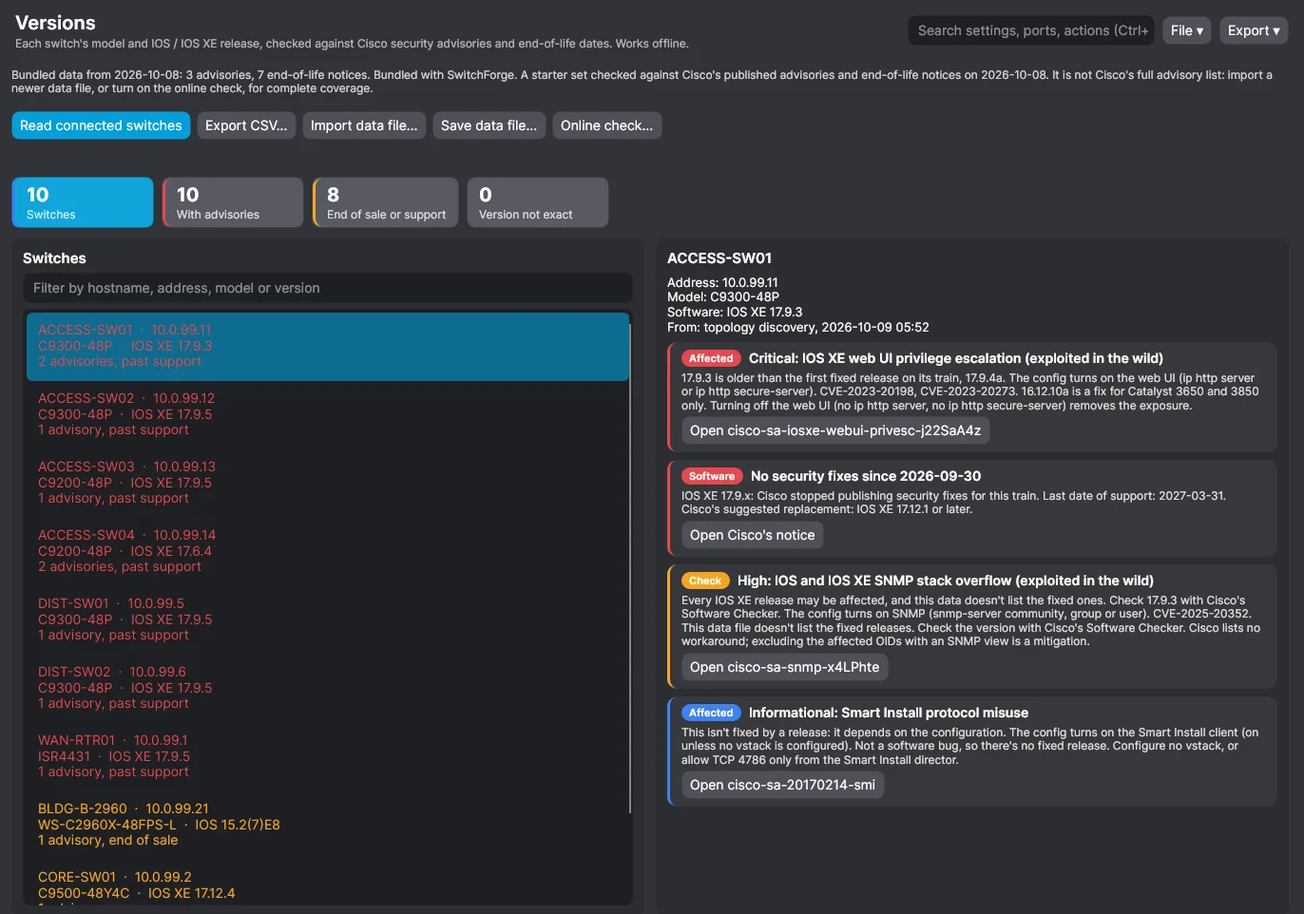
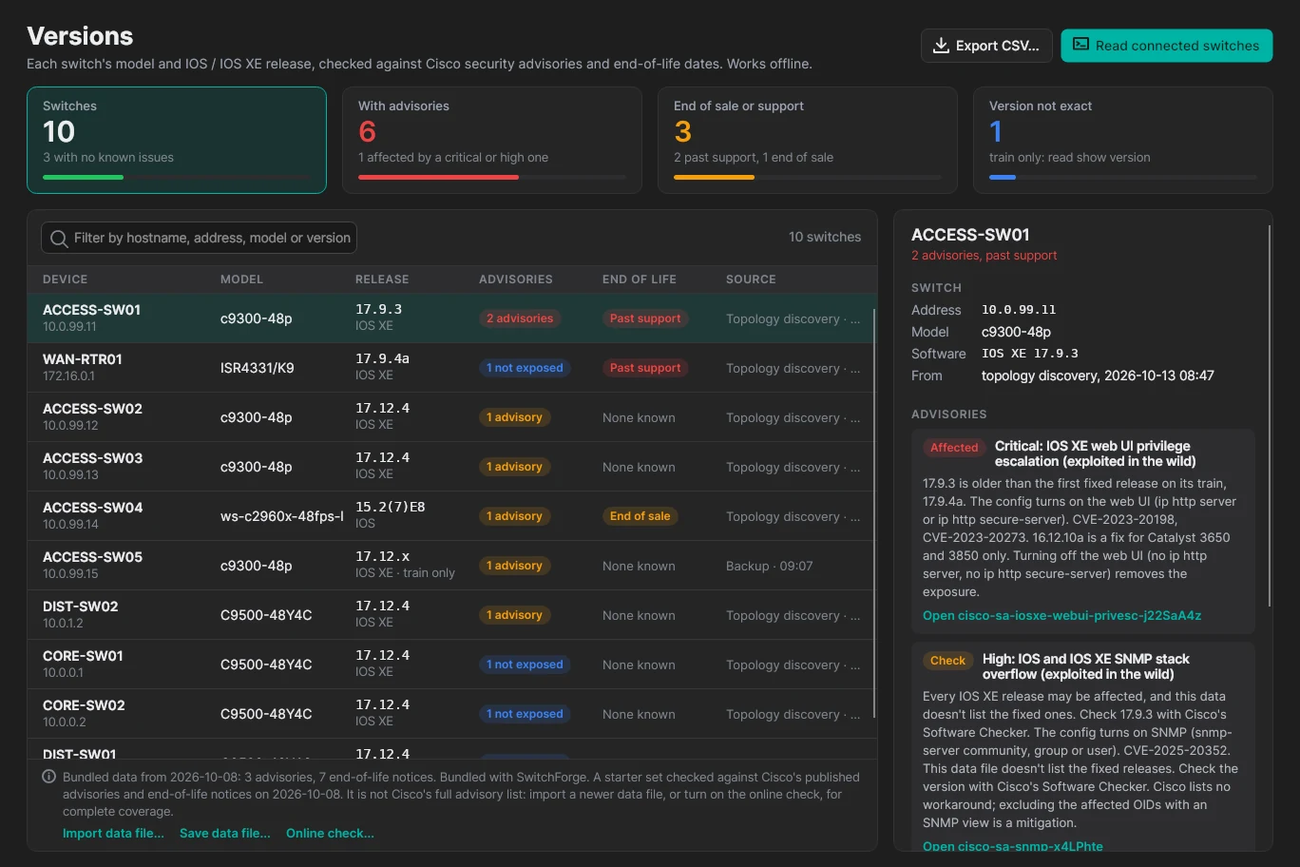
Update the site for 0.7.0 with fresh screenshots
New Graphite screenshots of the current app (Home, Design, debugger,
BGP builder, ACL builder, Safe Commit, STIG, Fleet, What changed,
Versions, Topology) from one consistent sample fleet, plus copy for
the new routing, Layer 2, access security, QoS, gateway and management
builders, at-rest encryption and checked checklist exports.

Claude-Session: https://claude.ai/code/session_01Ngcz3p2f2b6Fviu5yrTX37

diff --git a/index.html b/index.html
@@ -6,8 +6,8 @@
 <!-- Renaming the product? Change APP_NAME below, plus the name in <title> and the og: tags (link previews read those without running scripts),
      and re-render assets/og.png, the link preview image, which has the name drawn into it. -->
 <title>SwitchForge · Cisco config, STIG compliance and safe deployment</title>
-<meta name="description" content="Design, check and deploy Cisco switch and router configs offline. A live debugger, DISA STIG checks with evidence in .ckl/.cklb, and Safe Commit with a way back. Windows, air-gap ready.">
-<meta name="theme-color" content="#17181b">
+<meta name="description" content="Design, check and deploy Cisco switch and router configs offline. Builders for routing, Layer 2, security and QoS, a live debugger, DISA STIG checks with evidence in .ckl/.cklb, and Safe Commit with a way back. Windows, air-gap ready.">
+<meta name="theme-color" content="#1e1e1e">
 <meta property="og:type" content="website">
 <meta property="og:title" content="SwitchForge · Cisco config, STIG compliance and safe deployment">
 <meta property="og:description" content="Design, check and deploy Cisco configs offline, with DISA STIG checks, evidence-ready checklists and a way back on every change.">
@@ -308,9 +308,9 @@ footer p{max-width:66ch}
     <figure class="shot-hero reveal">
       <div class="window">
         <div class="bar"><i></i><i></i><i></i><span>Design · ACCESS-SW01 · Catalyst C9300-48P</span></div>
-        <img src="assets/img/design.webp" width="1600" height="1000" fetchpriority="high"
-             alt="The Design page. A 48-port Catalyst front panel with 24 ports selected; the port configuration panel shows access mode, VLAN 10 USERS, voice VLAN 20, PortFast and BPDU Guard; the global configuration shows the hostname, management interface and VLANs."
-             data-cap="Design: 24 ports selected on the front panel, with their access VLAN, voice VLAN, PortFast and BPDU Guard on the left and the switch's global settings on the right.">
+        <img src="assets/img/design.webp" width="1600" height="930" fetchpriority="high"
+             alt="The Design page. A 48-port Catalyst front panel with ports 1 to 24 selected, a table listing each selected port with its description, mode, VLAN 10 USERS, voice VLAN 20, PoE and BPDU guard, and port settings on the right: access mode, data VLAN 10, voice VLAN 20, PortFast and BPDU guard on, and the config lines for these ports."
+             data-cap="Design: ports 1 to 24 selected on the front panel, listed one per row, with their settings on the right and the config lines they produce underneath.">
       </div>
     </figure>
 
@@ -322,7 +322,7 @@ footer p{max-width:66ch}
     </div>
 
     <nav class="flow reveal" aria-label="Workflow">
-      <a href="#build"><span class="n">01</span><b>Design</b><p>Ports, global settings and ACLs. No switch needed.</p></a>
+      <a href="#build"><span class="n">01</span><b>Design</b><p>Ports, routing, ACLs, QoS and more. No switch needed.</p></a>
       <a href="#debugger"><span class="n">02</span><b>Validate</b><p>A debugger checks every line as you type.</p></a>
       <a href="#compliance"><span class="n">03</span><b>Comply</b><p>DISA STIGs with evidence and one-click fixes.</p></a>
       <a href="#deploy"><span class="n">04</span><b>Deploy</b><p>Safe Commit sends only the delta.</p></a>
@@ -338,7 +338,7 @@ footer p{max-width:66ch}
     <div class="sec-head reveal">
       <span class="eyebrow">Build offline</span>
       <h2>Catch the mistake before the switch does</h2>
-      <p>Edit the config visually or as text. Both stay in sync, and everything is checked while you work, with no switch connected.</p>
+      <p>Edit the config in forms or as text. Both stay in sync, and everything is checked while you work, with no switch connected.</p>
     </div>
 
     <div class="feature wide" id="debugger">
@@ -349,17 +349,35 @@ footer p{max-width:66ch}
           <p>Every line is checked as you type. Problem lines are underlined in the editor, and the debugger lists each issue with a <b>Why?</b> that explains it.</p>
         </div>
         <ul class="ticks">
-          <li><b>Invalid values</b>, like an NTP server of 10.20.30.999 or a route to a next hop that can't exist</li>
-          <li><b>Typos with a one-click fix</b>: "privilage" becomes "privilege"</li>
-          <li><b>Overlapping subnets and duplicate addresses</b> the switch would reject</li>
-          <li>Open STIG findings listed alongside, as compliance items</li>
+          <li><b>Invalid values</b>, like an NTP server of 10.20.30.999 or a static route to a next hop of 10.20.400.1</li>
+          <li><b>Settings IOS would reject</b>, like a spanning-tree priority of 4097</li>
+          <li><b>Overlapping subnets</b>, like a VLAN interface that overlaps the management network</li>
+          <li><b>Open STIG findings</b> on their own Compliance tab, next to the problems</li>
         </ul>
       </div>
       <figure class="reveal">
-        <div class="frame"><img src="assets/img/debugger.webp" width="1352" height="896" loading="lazy"
-          alt="The Configuration page. The editor underlines an invalid static route next hop and an invalid NTP server address in red; the debugger lists 12 errors, including the NTP server, the static route, a 'privilage' typo with a Change to 'privilege' button, and overlapping subnets."
-          data-cap="A test config full of deliberate mistakes: the bad static route (line 125) and NTP server (line 133) are underlined, and each error has Show, Edit in Design and Why?"><span class="zoom">Click to enlarge</span></div>
-        <figcaption>A test config full of deliberate mistakes. The bad route and NTP server are underlined in red.</figcaption>
+        <div class="frame"><img src="assets/img/debugger.webp" width="1368" height="912" loading="lazy"
+          alt="The Configuration page with a test config loaded: the Global form on the left, the config text in the middle, and the debugger underneath listing 21 problems, including an invalid NTP server, an invalid static route next hop, spanning-tree priority 4097 and Vlan10 overlapping the management subnet. On the right, Why is this a problem? explains that 10.20.30.999 isn't a valid IPv4 address, with Show in text and Edit in Design buttons."
+          data-cap="A test config full of deliberate mistakes: 21 problems listed under the editor, and the Why? panel explaining the invalid NTP server, with Show in text and Edit in Design."><span class="zoom">Click to enlarge</span></div>
+        <figcaption>A test config full of deliberate mistakes, with the reason for the selected one on the right.</figcaption>
+      </figure>
+    </div>
+
+    <div class="feature">
+      <div class="copy reveal">
+        <h3>Routing builders: OSPF, EIGRP and BGP</h3>
+        <p>Every part of the config has a form, listed down the left with its status. Shown here: BGP on an edge switch with an ISP neighbor and an iBGP peer.</p>
+        <ul class="ticks">
+          <li><b>Neighbors</b> with their remote AS, description and update source, and switches for activate, next-hop-self and shutdown</li>
+          <li><b>Networks to advertise</b>, one row each</li>
+          <li><b>Lines the form doesn't show</b>, like passwords and route maps, kept exactly as written</li>
+          <li><b>Imports stay exact</b>: a config you load is written back line for line until you edit it</li>
+        </ul>
+      </div>
+      <figure class="reveal">
+        <div class="frame"><img src="assets/img/routing.webp" width="1080" height="900" loading="lazy"
+          alt="The Global configuration form with its section list on the left, Routing selected and marked OSPF + BGP. The BGP card shows router bgp 65010 with router ID 10.255.0.11, a neighbor 203.0.113.1 in AS 64999 described as ISP-A CIRCUIT 4471 with its password and route-map lines kept, a neighbor 10.255.0.12 in AS 65010 described as EDGE-02 with update source Loopback0 and next-hop-self on, and network 10.31.0.0 mask 255.255.0.0."
+          data-cap="BGP on an edge switch: an eBGP neighbor to the ISP and an iBGP peer, with the lines the form doesn't show kept as written."><span class="zoom">Click to enlarge</span></div>
       </figure>
     </div>
 
@@ -368,26 +386,30 @@ footer p{max-width:66ch}
         <h3>ACLs without the guesswork</h3>
         <p>Build named standard and extended ACLs one rule per row, with the generated CLI underneath.</p>
         <ul class="ticks">
+          <li><b>Extended rules</b> with protocol, source, destination and ports</li>
           <li><b>Reorder rules</b> by dragging the handle or with the arrows</li>
           <li><b>Log per rule</b>, or add a logged deny any in one click</li>
           <li><b>Apply it</b> to the VTY lines (who may SSH in), SVIs or routed ports, in or out</li>
-          <li><b>Extended rules</b> with protocol, source, destination and ports</li>
         </ul>
       </div>
       <figure class="reveal">
-        <div class="frame"><img src="assets/img/acl.webp" width="668" height="868" loading="lazy"
-          alt="The ACL builder. Standard ACL VTY-MGMT has a remark, a permit 10.0.99.0/24 rule and a logged deny any, an Applied to section for the VTY lines and Vlan10, and the generated CLI underneath. Below it, extended ACL USERS-IN has a logged deny ip from 10.0.10.0/24 to 10.0.99.0/24 and a permit udp from any to any eq 67."
-          data-cap="ACL builder: standard ACL VTY-MGMT with its generated CLI, and extended ACL USERS-IN with protocol, addresses and ports."><span class="zoom">Click to enlarge</span></div>
+        <div class="frame"><img src="assets/img/acl.webp" width="1080" height="1000" loading="lazy"
+          alt="The ACL builder. Extended ACL USERS-IN has a remark, a logged deny ip from 10.0.10.0/24 to 10.0.99.0/24, a permit udp from any to any eq bootps and a permit ip any any, each with a drag handle and arrows. It is applied to interface Vlan10 inbound, with the generated CLI underneath."
+          data-cap="ACL builder: extended ACL USERS-IN, applied to Vlan10 inbound, with its generated CLI."><span class="zoom">Click to enlarge</span></div>
       </figure>
     </div>
 
     <div class="also">
       <div class="also-h reveal">Also in Build</div>
       <div class="cards four reveal">
-        <div class="card"><h4>Import a running-config</h4><p>It maps into settings and keeps anything else as custom CLI. The switch model is detected automatically.</p></div>
+        <div class="card"><h4>Layer 2</h4><p>Spanning tree priorities and MST regions, EtherChannel with LACP, UDLD, CDP and LLDP, and storm control.</p></div>
+        <div class="card"><h4>Access security</h4><p>RADIUS and TACACS+ server groups, 802.1X with a lockout check, DHCP snooping and ARP inspection trust, CoPP and IPv6 first hop.</p></div>
+        <div class="card"><h4>QoS</h4><p>Class maps, policy maps and service policies, with a voice preset for ports with a voice VLAN.</p></div>
+        <div class="card"><h4>Gateways and DHCP</h4><p>HSRP and VRRP, DHCP relay and pools, and VRF-lite, with a check of the differences between a pair of switches.</p></div>
+        <div class="card"><h4>Management and monitoring</h4><p>SNMPv3, syslog, NetFlow, SPAN and RSPAN, stack provisioning and PoE per port.</p></div>
+        <div class="card"><h4>Import a running-config</h4><p>Every line is kept as it was, and the switch model is detected automatically.</p></div>
         <div class="card"><h4>Copy and paste ports</h4><p>Right-click a port to copy its settings and paste them onto any selection.</p></div>
-        <div class="card"><h4>Scripts with variables</h4><p>A library of config snippets, show-command reports, and Tcl or Python for the switch.</p></div>
-        <div class="card"><h4>Bulk staging</h4><p>Stage many switches from a spreadsheet, or run commands on several at once.</p></div>
+        <div class="card"><h4>Scripts and bulk staging</h4><p>Config snippets with variables, Tcl or Python for the switch, and many switches staged from a spreadsheet.</p></div>
       </div>
     </div>
   </section>
@@ -401,22 +423,22 @@ footer p{max-width:66ch}
     </div>
     <div class="duo">
       <figure class="reveal">
-        <div class="frame"><img src="assets/img/commit.webp" width="780" height="560" loading="lazy"
-          alt="Safe Commit: 4 changes to commit to ACCESS-SW01. Pre-flight checks passed: switch reachable, management access kept, configuration syntax, no STIG regressions, best practices, golden standards. Below are the 8 command lines that will be sent."
-          data-cap="Before: only the delta, with every pre-flight check passed. You can edit the commands before committing."><span class="zoom">Click to enlarge</span></div>
-        <figcaption><b>Before.</b> Only the delta is sent, after every pre-flight check passes.</figcaption>
+        <div class="frame"><img src="assets/img/commit.webp" width="780" height="840" loading="lazy"
+          alt="Commit to ACCESS-SW01: 54 changes in 3 interface blocks. Pre-flight: switch reachable, a warning that ports Gi1/0/45-48 and Te1/1/3-8 will be shut down so make sure none is the uplink, then configuration syntax, no STIG regressions, best practices and golden standards passed. Below are the 10 command lines that will be sent, a change ticket field, and backup, safety net and before/after check options."
+          data-cap="Before: only the delta, with the pre-flight checks. A warning flags the ports that will be shut down. You can edit the commands before committing."><span class="zoom">Click to enlarge</span></div>
+        <figcaption><b>Before.</b> Only the delta is sent, and the pre-flight warns about ports being shut down.</figcaption>
       </figure>
       <figure class="reveal">
-        <div class="frame"><img src="assets/img/commit-report.webp" width="640" height="520" loading="lazy"
-          alt="Change deployed and verified on 10.0.99.11 with ticket CHG0042: every pre-check passed, 4 commands with a backup first and a reload-in-10 safety net, and every post-check passed, from still reachable to spanning-tree root unchanged."
+        <div class="frame"><img src="assets/img/commit-report.webp" width="640" height="680" loading="lazy"
+          alt="Change deployed and verified on 10.0.99.11 with ticket CHG0042: the pre-checks, 3 commands with a backup first and a reload-in-10 safety net, and every post-check passed, from still reachable to spanning-tree root unchanged."
           data-cap="After: the deployment record, ready for the change ticket."><span class="zoom">Click to enlarge</span></div>
         <figcaption><b>After.</b> The record for the change ticket, exportable as HTML.</figcaption>
       </figure>
     </div>
     <div class="phases reveal">
       <div class="phase"><span class="k">Pre-flight</span><p>The switch is reachable, nothing cuts off management access, no debugger errors, and no STIG or golden-standard regressions.</p></div>
-      <div class="phase"><span class="k">Change</span><p>A ticket number, a backup first, then a reload-in-10 safety net (or an NX-OS checkpoint) while the delta is applied.</p></div>
-      <div class="phase"><span class="k">Post-check</span><p>Still reachable, every command accepted, and before/after compared: ports, err-disabled, CDP neighbors, MAC learning and the spanning-tree root.</p></div>
+      <div class="phase"><span class="k">Change</span><p>Approval covers exactly the commands you saw, and risky changes need the hostname typed. A backup and a recovery point come first, then a reload-in-10 safety net (or an NX-OS checkpoint), and commands go one at a time, stopping at the first one the switch refuses.</p></div>
+      <div class="phase"><span class="k">Post-check</span><p>Still reachable, every command accepted, and before/after compared: ports, err-disabled, CDP neighbors, MAC learning, the spanning-tree root, and OSPF, EIGRP and BGP neighbors.</p></div>
     </div>
   </section>
 
@@ -443,10 +465,10 @@ footer p{max-width:66ch}
         </ul>
       </div>
       <figure class="reveal">
-        <div class="frame"><img src="assets/img/stig.webp" width="1352" height="896" loading="lazy"
-          alt="The STIG tab with the Cisco IOS XE Switch L2S STIG V3R2 loaded: CAT I open 1, CAT II open 10, CAT III open 1, not a finding 8. Rule V-220649 (802.1X) is open, with a Turn on 802.1X with MAB fallback fix button, and the evidence written to the checklist shows 14 config lines."
-          data-cap="The STIG tab: open findings by category, a one-click fix for V-220649, and the 14 config lines written to the checklist as evidence."><span class="zoom">Click to enlarge</span></div>
-        <figcaption>Rule V-220649 is open, with its fix and the evidence that goes into the checklist.</figcaption>
+        <div class="frame"><img src="assets/img/stig.webp" width="1368" height="912" loading="lazy"
+          alt="The Compliance page's STIG tab with the Cisco IOS XE Switch L2S STIG V3R2 checking ACCESS-SW01: CAT I open 1, CAT II open 7, CAT III open 2, not a finding 10, needs manual review 1. Rule CISC-L2-000020 (V-220649, 802.1X) is open because 802.1X/MAB isn't configured; the evidence shows the interface lines, and the fix is Turn on 802.1X with MAB fallback. Export .cklb, POA&amp;M, Fix all open and Check fleet buttons sit at the top."
+          data-cap="The STIG tab: open findings by category, rule V-220649 open with the config lines behind it, and its fix."><span class="zoom">Click to enlarge</span></div>
+        <figcaption>Rule V-220649 is open, with the evidence that goes into the checklist and its fix.</figcaption>
       </figure>
     </div>
 
@@ -469,11 +491,13 @@ footer p{max-width:66ch}
 
     <div class="also">
       <div class="also-h reveal">Also in Comply</div>
-      <div class="cards four reveal">
+      <div class="cards reveal">
+        <div class="card"><h4>Checklists that open cleanly</h4><p>Every .ckl and .cklb is checked before it's saved, and tested against STIG Manager's own reader.</p></div>
         <div class="card"><h4>NIST 800-53 mapping</h4><p>Import DISA's CCI list and every rule shows its 800-53 controls, in the app and in reports.</p></div>
         <div class="card"><h4>POA&amp;M draft</h4><p>One item per open finding, in the eMASS spreadsheet layout.</p></div>
         <div class="card"><h4>Fleet-wide runs</h4><p>Check every switch's newest backup at once, then save a report or checklist per switch.</p></div>
         <div class="card"><h4>Policy packs</h4><p>Your own golden standards with required and forbidden lines, scoped by device role.</p></div>
+        <div class="card"><h4>STIG release compare</h4><p>See which rules a new STIG release adds, removes or changes before you switch to it.</p></div>
       </div>
     </div>
   </section>
@@ -486,20 +510,41 @@ footer p{max-width:66ch}
       <p>State, history and drift, worked out from scheduled backups.</p>
     </div>
 
-    <div class="feature">
-      <div class="copy reveal">
-        <h3>Fleet board</h3>
-        <p>Every switch at a glance, checked from its newest backup without connecting.</p>
+    <div class="feature wide">
+      <div class="copy wide-head reveal">
+        <div>
+          <h3>Home: what needs you today</h3>
+          <p>The app opens on the whole network at a glance, worked out from the newest backups.</p>
+        </div>
+        <ul class="ticks">
+          <li><b>Reachable switches, STIG compliance, open CAT I findings, drift and backups</b> across the top</li>
+          <li><b>The switches that need attention</b>, worst first, with the reason on each row</li>
+          <li><b>Findings by severity</b>, recent activity from the change log, and your recent projects</li>
+        </ul>
+      </div>
+      <figure class="reveal">
+        <div class="frame"><img src="assets/img/home.webp" width="1368" height="912" loading="lazy"
+          alt="The Home page: 9 of 10 switches reachable with ACCESS-SW05 unreachable, 83% STIG compliance with 6 of 10 switches compliant, 2 open CAT I findings on 2 switches, 1 switch changed since known-good, and 10 backups in the last 24 hours with 1 failed. Needs attention lists ACCESS-SW05 (backup failed), ACCESS-SW01 and ACCESS-SW04 (open STIG rules) and DIST-SW02 (drifted). On the right, compliance by severity and recent projects; below, recent activity."
+          data-cap="Home: 10 switches at a glance, and the 4 that need attention, each with the reason."><span class="zoom">Click to enlarge</span></div>
+      </figure>
+    </div>
+
+    <div class="feature wide">
+      <div class="copy wide-head reveal">
+        <div>
+          <h3>Fleet board</h3>
+          <p>Every switch at a glance, checked from its newest backup without connecting.</p>
+        </div>
         <ul class="ticks">
           <li><b>Compliant, drifted, non-compliant or unreachable</b>, counted at the top</li>
-          <li><b>The reason on every row</b>: a failed backup, the policy-pack lines it misses, or what drifted</li>
+          <li><b>The reason on every row</b>: a failed backup, open STIG rules, or what drifted</li>
           <li><b>Refresh</b> checks the connected switches live</li>
         </ul>
       </div>
       <figure class="reveal">
-        <div class="frame"><img src="assets/img/fleet.webp" width="910" height="560" loading="lazy"
-          alt="The Fleet board: 9 switches, 4 compliant, 2 drifted, 2 non-compliant and 1 unreachable, with each switch listed with its state and the reason."
-          data-cap="Fleet board: 9 switches, each with its state and the reason for it."><span class="zoom">Click to enlarge</span></div>
+        <div class="frame"><img src="assets/img/fleet.webp" width="1368" height="912" loading="lazy"
+          alt="The Fleet board: 10 switches, 6 compliant, 1 drifted, 2 non-compliant and 1 unreachable, checked against 1 STIG and 1 policy pack. Each switch is listed with its model, IOS release, reachability, STIG score, drift, last backup and the reason, from Backup failed: No reply on port 22 to No open findings and no drift."
+          data-cap="Fleet board: 10 switches, each with its state and the reason for it."><span class="zoom">Click to enlarge</span></div>
       </figure>
     </div>
 
@@ -511,13 +556,13 @@ footer p{max-width:66ch}
         </div>
         <ul class="ticks">
           <li><b>Known-good backups</b> marked with a star, saved after a Safe Commit that passed or marked by hand</li>
-          <li><b>Security changes first</b>, like an SNMPv3 group removed and a community added</li>
-          <li><b>Grouped</b> into interfaces, VLANs and management settings, then the line-by-line diff</li>
+          <li><b>Security changes first</b>, like an SNMP community added, with the community itself masked</li>
+          <li><b>Grouped</b> into VLANs and management settings, then the line-by-line diff</li>
         </ul>
       </div>
       <figure class="reveal">
-        <div class="frame"><img src="assets/img/whatchanged.webp" width="1472" height="890" loading="lazy"
-          alt="The Backups page for DIST-SW02: a scheduled backup from 2026-10-09 and a known-good backup from 2026-10-02 saved after a Safe Commit passed. What changed lists 6 changes, 2 touching security: the SNMPv3 group was removed and an SNMP community was added, Gi1/0/12 moved to VLAN 77, VLAN 77 TEMP-VENDOR was added and an NTP server changed. Below that is the line-by-line diff with added lines in green and removed lines in red."
+        <div class="frame"><img src="assets/img/whatchanged.webp" width="1368" height="912" loading="lazy"
+          alt="The Backups page for DIST-SW02: a scheduled backup from 2026-10-13 and a known-good backup from 2026-10-06. What changed lists 4 changes, 1 touching security: an SNMP community was added (its value masked), VLAN 77 TEMP-VENDOR was added, and an NTP server was replaced. Below that is the line-by-line diff with added lines in green and removed lines in red."
           data-cap="What changed on DIST-SW02 since its known-good backup: security first, then grouped changes and the line-by-line diff."><span class="zoom">Click to enlarge</span></div>
       </figure>
     </div>
@@ -535,8 +580,8 @@ footer p{max-width:66ch}
         </ul>
       </div>
       <figure class="reveal">
-        <div class="frame"><img src="assets/img/versions.webp" width="1372" height="962" loading="lazy"
-          alt="The Versions page: 10 switches, 10 with advisories, 8 at end of sale or support. ACCESS-SW01 on IOS XE 17.9.3 is marked Affected by the critical web UI advisory because its config turns on ip http server, and its release no longer gets security fixes."
+        <div class="frame"><img src="assets/img/versions.webp" width="1368" height="912" loading="lazy"
+          alt="The Versions page: 10 switches, 6 with advisories, 3 at end of sale or support. ACCESS-SW01 on IOS XE 17.9.3 is marked Affected by the critical web UI advisory because its config turns on the web UI, and its release is past support."
           data-cap="Versions: ACCESS-SW01 is affected by the web UI advisory because its config turns on ip http server."><span class="zoom">Click to enlarge</span></div>
       </figure>
     </div>
@@ -550,13 +595,13 @@ footer p{max-width:66ch}
         <ul class="ticks">
           <li><b>Core, distribution and access</b> layers, laid out automatically</li>
           <li><b>Links colored</b> by trunk or routed, with the port on each end</li>
-          <li><b>Phones, access points and hosts</b> tucked under their switch</li>
+          <li><b>Phones, access points and hosts</b> tucked under their switch, and switches that couldn't be read outlined in red</li>
         </ul>
       </div>
       <figure class="reveal">
-        <div class="frame"><img src="assets/img/topology.webp" width="1290" height="480" loading="lazy"
-          alt="The Topology page: CORE-SW01, CORE-SW02 and a WAN router in the core layer, DIST-SW01, DIST-SW02 and a firewall in distribution, and five access switches below, linked by blue trunk lines and purple routed lines labelled with port names."
-          data-cap="Topology: core, distribution and access layers, with trunks in blue and routed links in purple."><span class="zoom">Click to enlarge</span></div>
+        <div class="frame"><img src="assets/img/topology.webp" width="1545" height="610" loading="lazy"
+          alt="The Topology map: CORE-SW01, CORE-SW02 and WAN-RTR01 in the core layer, DIST-SW01 and DIST-SW02 in distribution, and five access switches below, linked by blue trunk lines and purple routed lines labelled with port names. ACCESS-SW05 has a dashed red border because it couldn't be read, and ACCESS-SW01 and ACCESS-SW02 carry endpoint badges."
+          data-cap="Topology: core, distribution and access layers, with trunks in blue, routed links in purple, and a switch that couldn't be read outlined in red."><span class="zoom">Click to enlarge</span></div>
       </figure>
     </div>
 
@@ -576,7 +621,7 @@ footer p{max-width:66ch}
     <div class="sec-head reveal">
       <span class="eyebrow">Built for secure environments</span>
       <h2>Runs on one Windows PC. No cloud, no account.</h2>
-      <p>Projects, backups and settings stay in your Windows profile. Nothing is sent anywhere.</p>
+      <p>Projects, backups and settings stay in your Windows profile, encrypted for your account. Nothing is sent anywhere.</p>
     </div>
     <div class="cards reveal">
       <div class="card">
@@ -592,7 +637,7 @@ footer p{max-width:66ch}
       <div class="card">
         <div class="ico"><svg viewBox="0 0 24 24" fill="none" stroke="currentColor" stroke-width="2" stroke-linecap="round" stroke-linejoin="round"><path d="M14 3H6a2 2 0 0 0-2 2v14a2 2 0 0 0 2 2h12a2 2 0 0 0 2-2V9z"/><path d="M14 3v6h6M8 13h8M8 17h5"/></svg></div>
         <h3>SBOM and checksums</h3>
-        <p>Every release ships a CycloneDX software bill of materials and SHA-256 checksums for your security review.</p>
+        <p>Every release ships a CycloneDX software bill of materials listing exactly what the exe contains, and SHA-256 checksums.</p>
       </div>
       <div class="card">
         <div class="ico"><svg viewBox="0 0 24 24" fill="none" stroke="currentColor" stroke-width="2" stroke-linecap="round" stroke-linejoin="round"><circle cx="12" cy="8" r="4"/><path d="M4 21c0-4 4-6 8-6s8 2 8 6"/></svg></div>
@@ -606,8 +651,8 @@ footer p{max-width:66ch}
       </div>
       <div class="card">
         <div class="ico"><svg viewBox="0 0 24 24" fill="none" stroke="currentColor" stroke-width="2" stroke-linecap="round" stroke-linejoin="round"><rect x="3" y="11" width="18" height="10" rx="2"/><path d="M7 11V7a5 5 0 0 1 10 0v4"/></svg></div>
-        <h3>Secrets stay secret</h3>
-        <p>Local accounts and the enable secret are stored as type 9 or type 8 hashes, and secrets are masked in evidence and records.</p>
+        <h3>Encrypted at rest</h3>
+        <p>Backups and project files are encrypted for your Windows user. Local accounts use type 9 or type 8 hashes, and secrets are masked in evidence, records and the change log.</p>
       </div>
     </div>
 
@@ -671,7 +716,7 @@ footer p{max-width:66ch}
     <div class="faq reveal">
       <details>
         <summary>Do I need a switch to try it?</summary>
-        <p>No. Design, the debugger, ACLs, the STIG checks and reports all work offline, on the built-in sample switch or a config file you import. Connect to a switch when you want to read its config or deploy.</p>
+        <p>No. Design, the builders, the debugger, the STIG checks and reports all work offline, on the built-in sample switch or a config file you import. Connect to a switch when you want to read its config or deploy.</p>
       </details>
       <details>
         <summary>Which STIGs does it check?</summary>
@@ -683,7 +728,7 @@ footer p{max-width:66ch}
       </details>
       <details>
         <summary>Where is my data kept?</summary>
-        <p>In your Windows profile, under <code>%AppData%\SwitchForge</code>: projects, backups, settings and the changelog. Remembered session passwords are protected with Windows DPAPI. Nothing is uploaded.</p>
+        <p>In your Windows profile, under <code>%AppData%\SwitchForge</code>: projects, backups, settings and the changelog. Backups, projects and remembered session passwords are encrypted with Windows DPAPI, so only your Windows account can open them. To move a project to another PC, use File &gt; Save portable copy. Nothing is uploaded.</p>
       </details>
       <details>
         <summary>What does read-only mean?</summary>
